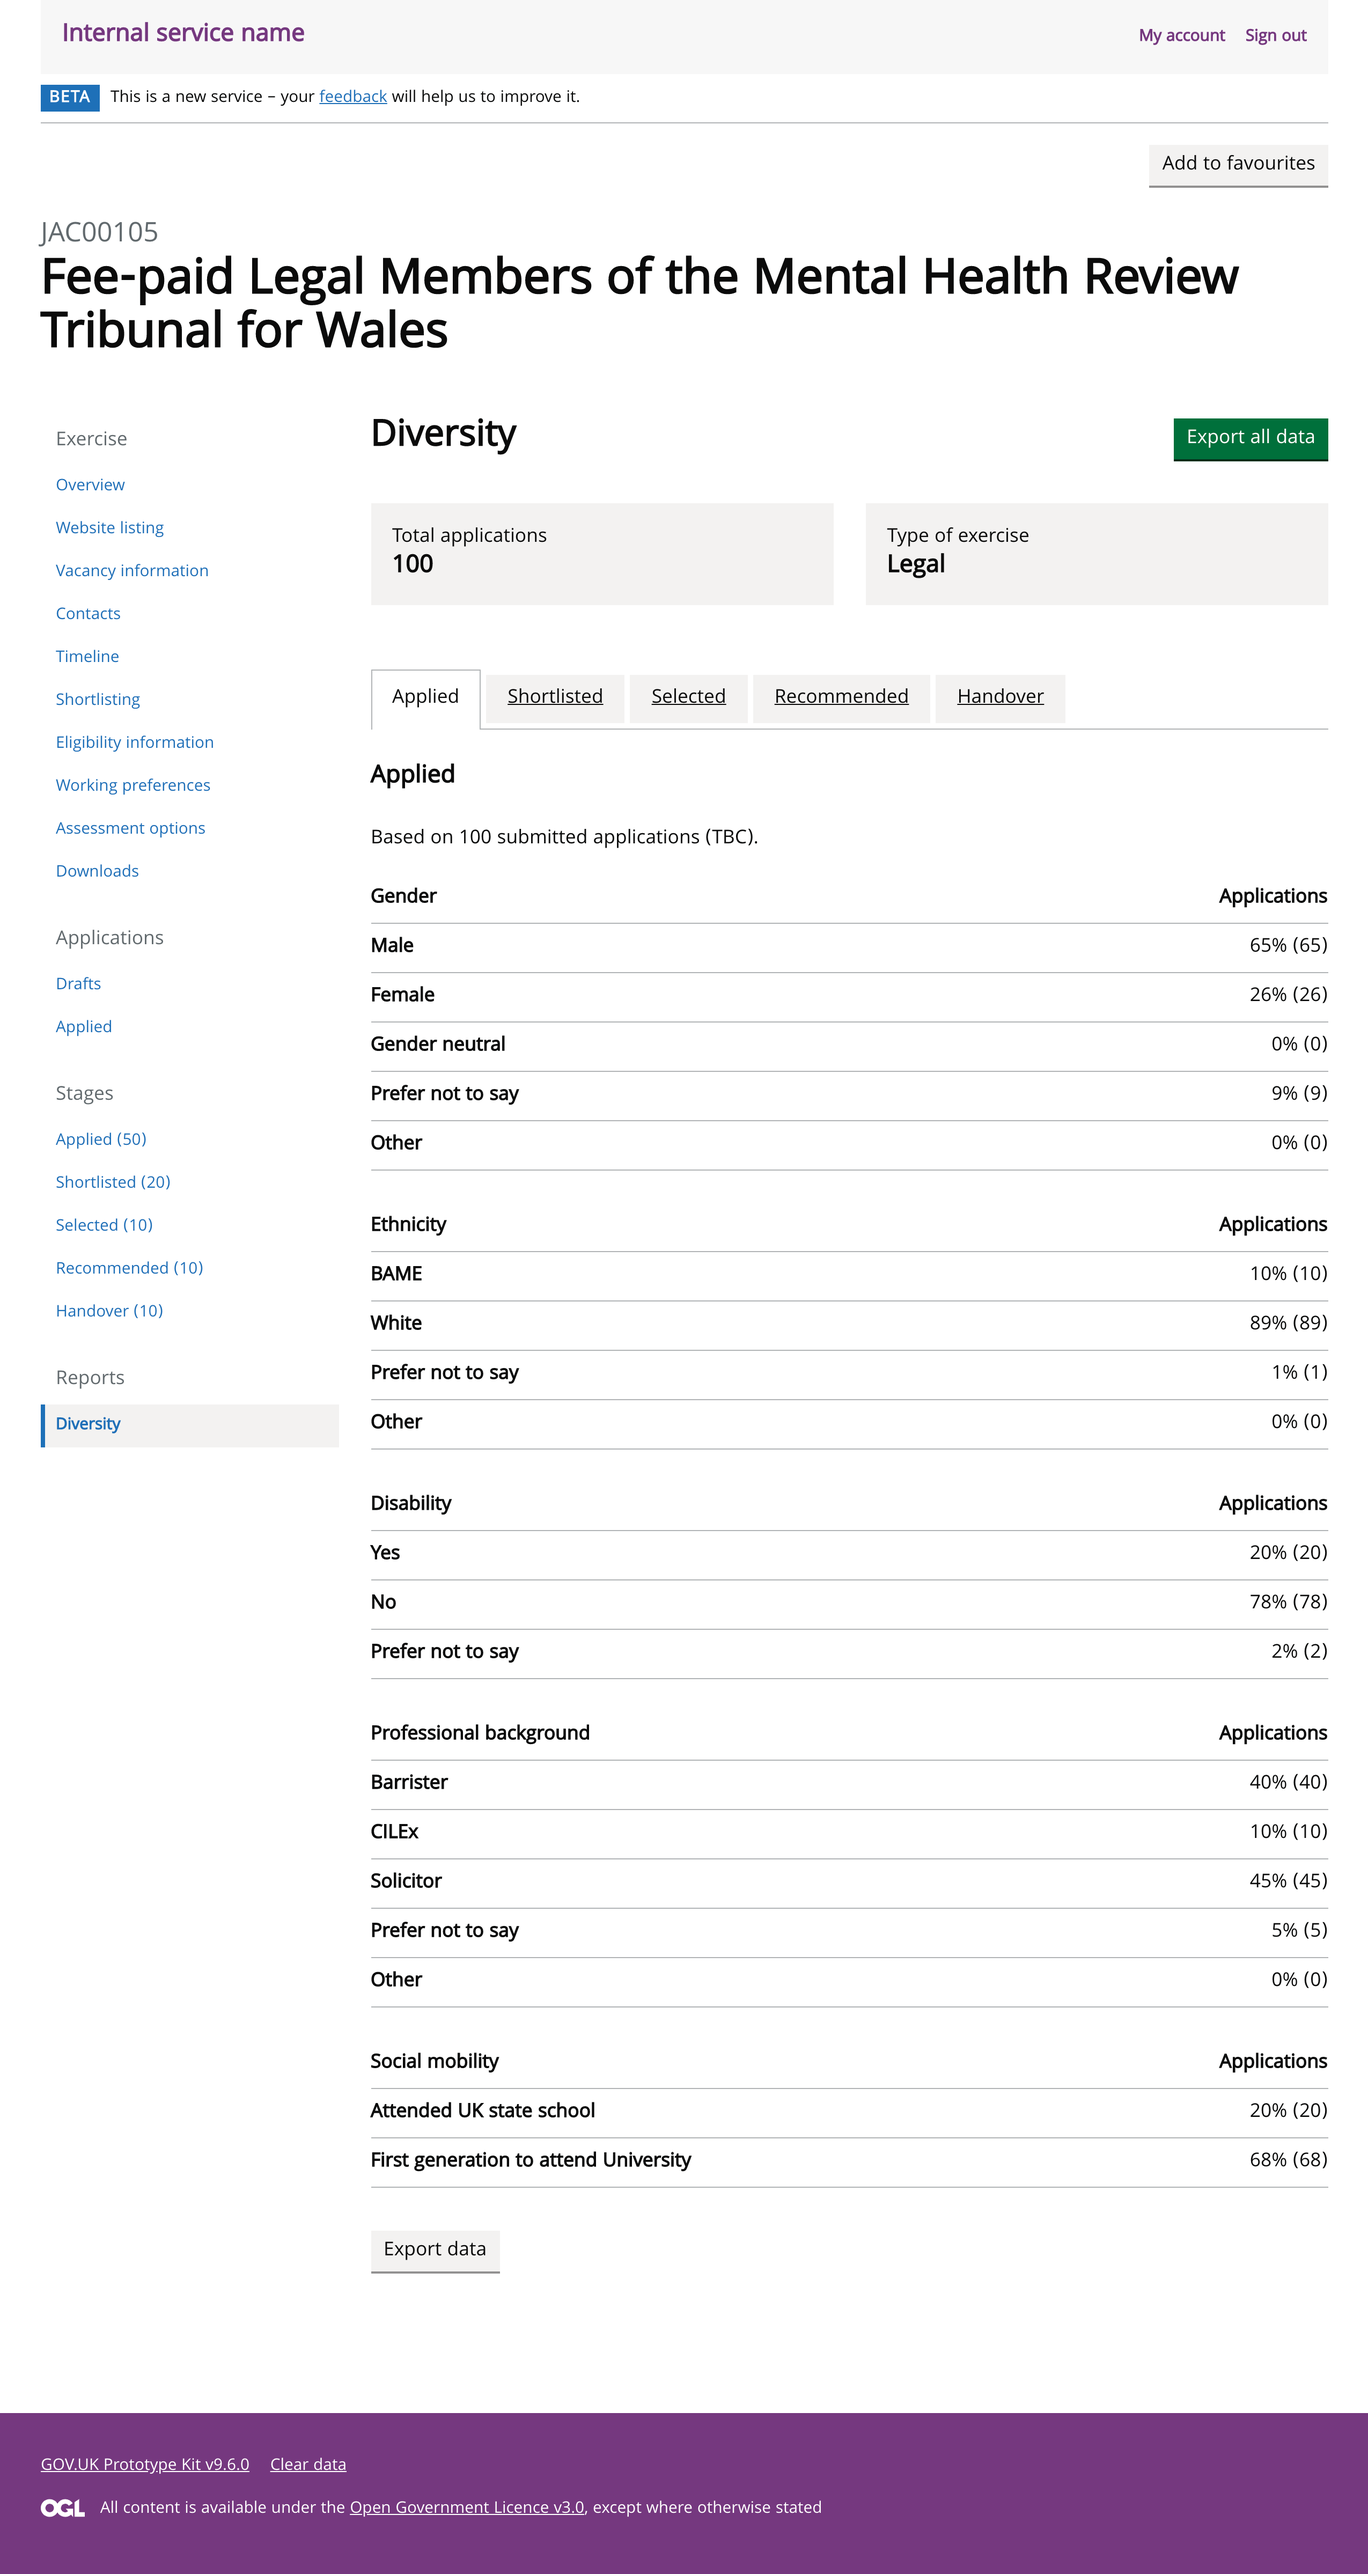
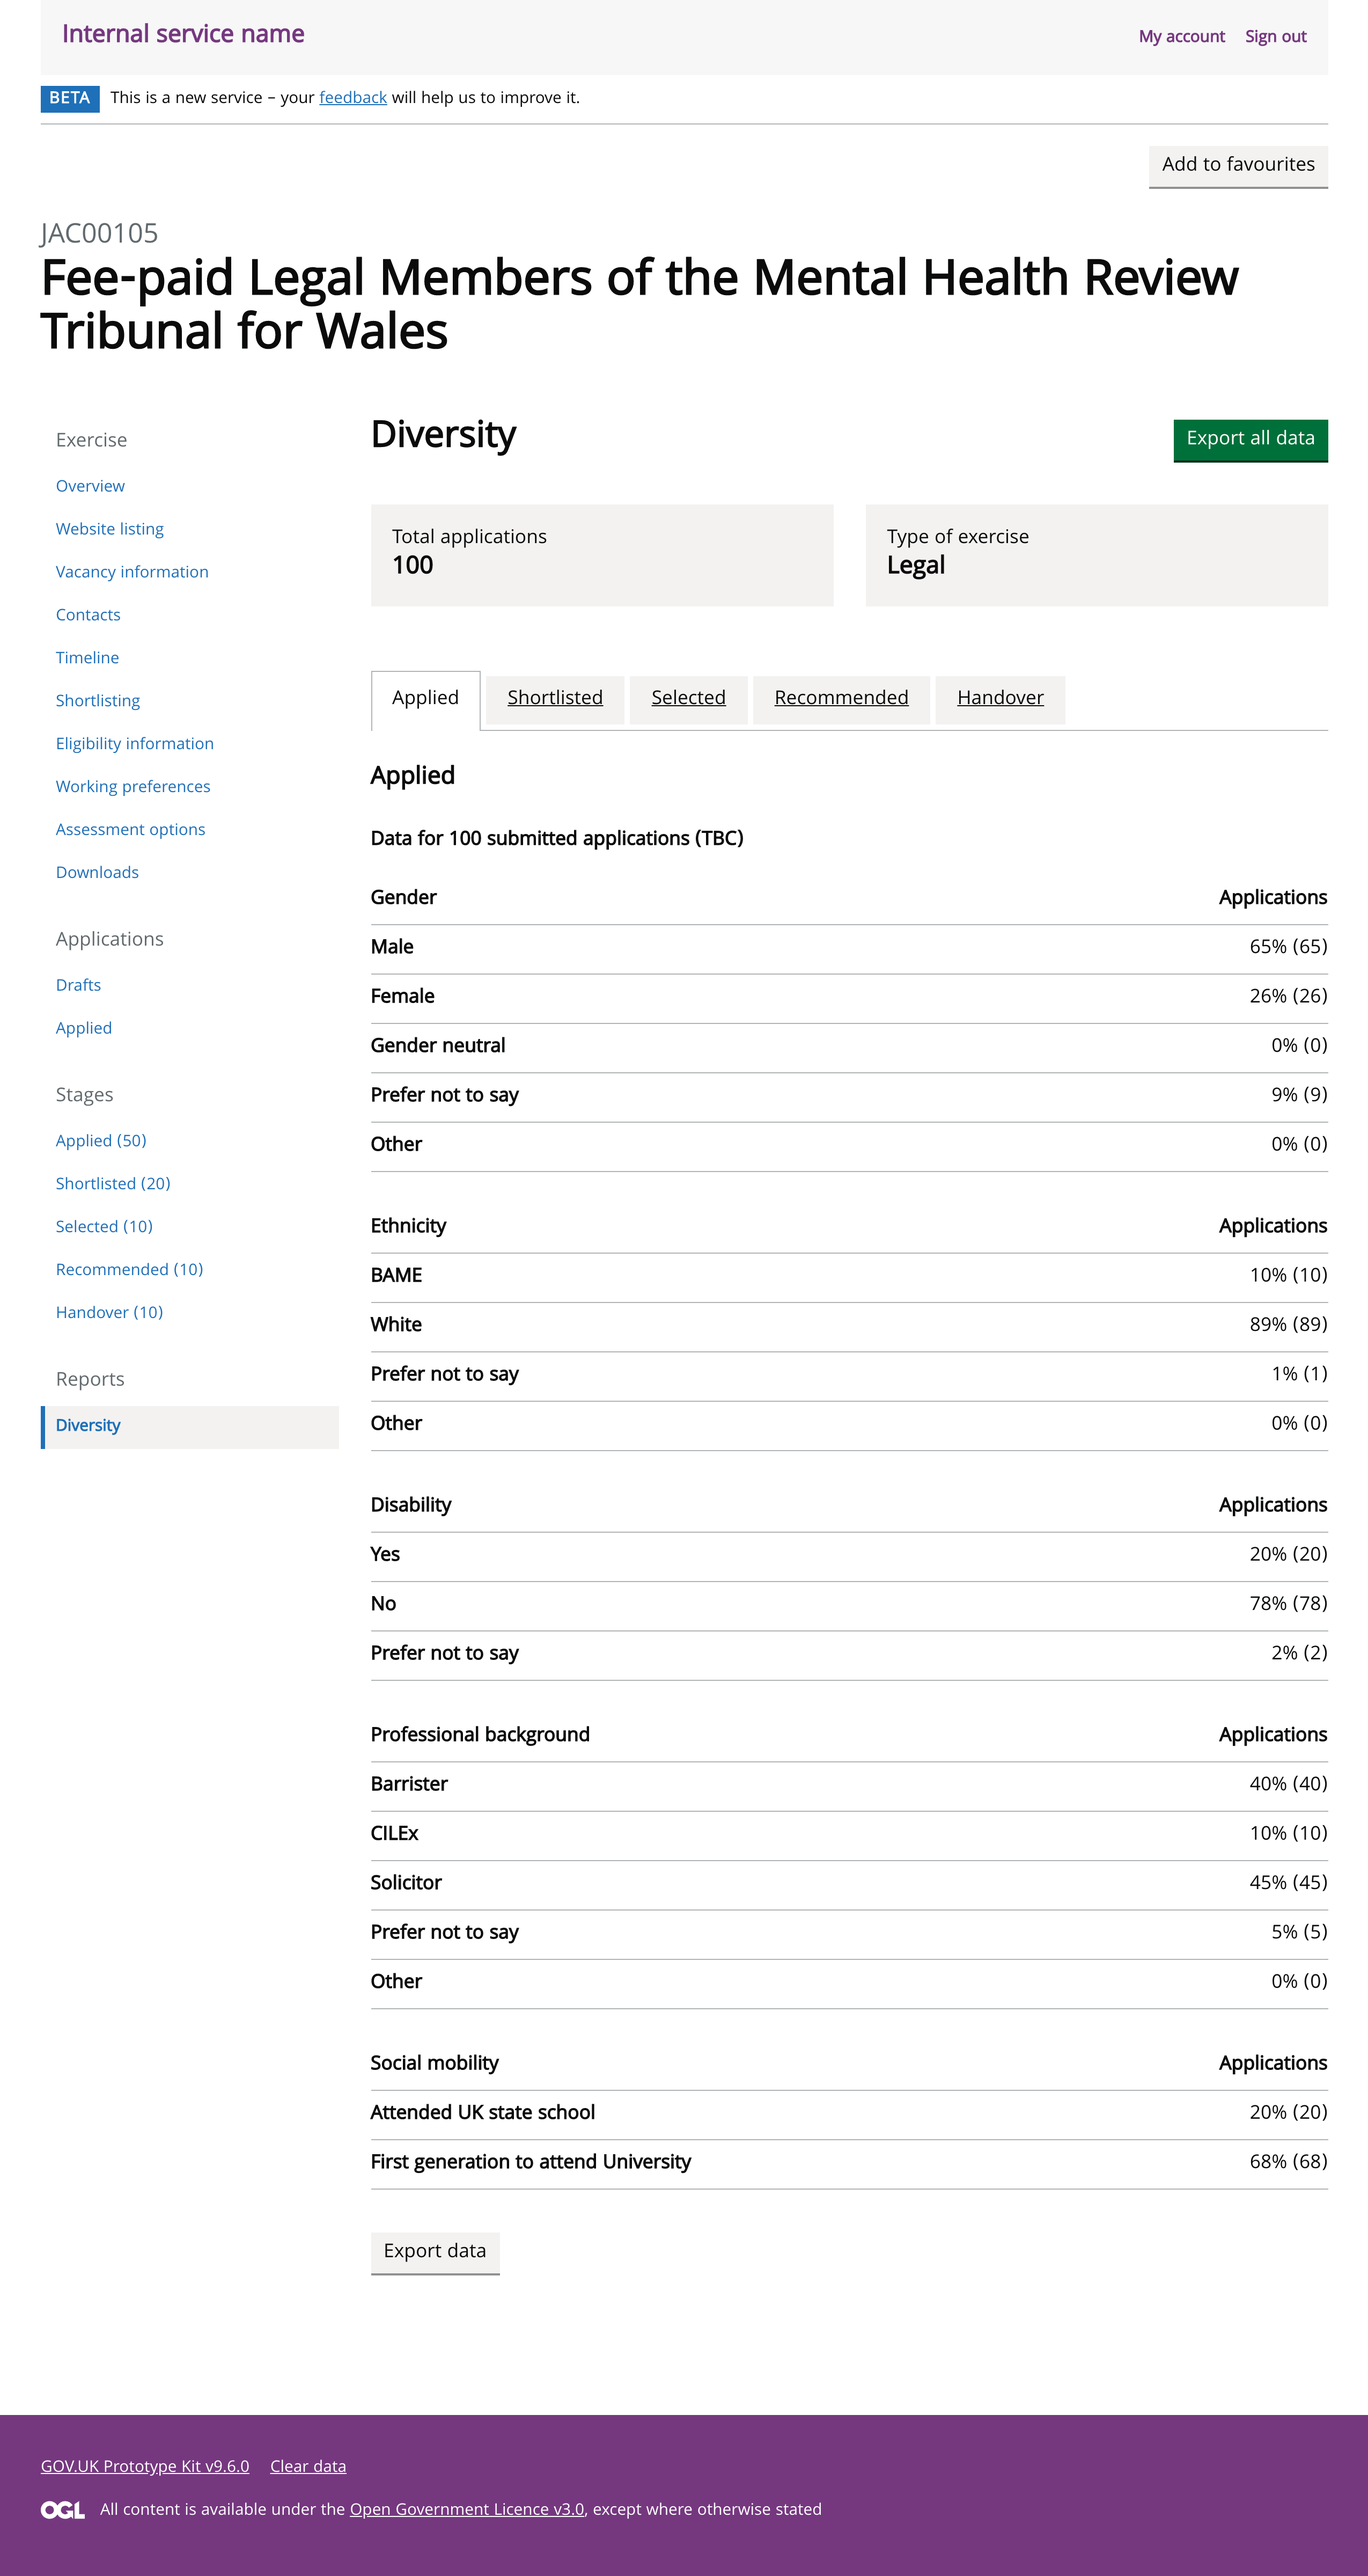
Updates to prototype

diff --git a/app/views/view-reports/v1/index.html b/app/views/view-reports/v1/index.html
@@ -168,7 +168,8 @@
 				<div class="govuk-tabs__panel" id="applied">
 					<!-- <h3 class="govuk-heading-m govuk-!-margin-bottom-6">Applied (100)</h3> -->
 					<h3 class="govuk-heading-m govuk-!-margin-bottom-6">Applied</h3>
-					<p class="govuk-body">Based on 100 submitted applications (TBC).</p>
+					<h4 class="govuk-heading-s">Data for 100 submitted applications (TBC)</h4>
+					<!-- <p class="govuk-body">Data for 100 submitted applications (TBC).</p> -->
 					<table class="govuk-table">
 						<caption class="govuk-table__caption hidden">Gender by applied stage</caption>
 						<thead class="govuk-table__head">
@@ -306,7 +307,8 @@
 				<div class="govuk-tabs__panel govuk-tabs__panel--hidden" id="shortlisted">
 					<!-- <h3 class="govuk-heading-m govuk-!-margin-bottom-6">Shortlisted (50)</h3> -->
 					<h3 class="govuk-heading-m govuk-!-margin-bottom-6">Shortlisted</h3>
-					<p class="govuk-body">Based on 50 applications that have been shortlisted (TBC).</p>
+					<h4 class="govuk-heading-s">Data for 50 applications that were shortlisted (TBC)</h4>
+					<!-- <p class="govuk-body">Data for 50 applications that were shortlisted (TBC).</p> -->
 					<table class="govuk-table">
 						<caption class="govuk-table__caption hidden">Gender by shortlisted stage</caption>
 						<thead class="govuk-table__head">
@@ -444,7 +446,8 @@
 				<div class="govuk-tabs__panel govuk-tabs__panel--hidden" id="selected">
 					<!-- <h3 class="govuk-heading-m govuk-!-margin-bottom-6">Selected (30)</h3> -->
 					<h3 class="govuk-heading-m govuk-!-margin-bottom-6">Selected</h3>
-					<p class="govuk-body">Based on 30 applications that have been selected (TBC).</p>
+					<h4 class="govuk-heading-s">Data for 30 applications that were selected (TBC)</h4>
+					<!-- <p class="govuk-body">Data for 30 applications that were selected (TBC).</p> -->
 					<table class="govuk-table">
 						<caption class="govuk-table__caption hidden">Gender by selected stage</caption>
 						<thead class="govuk-table__head">
@@ -582,7 +585,8 @@
 				<div class="govuk-tabs__panel govuk-tabs__panel--hidden" id="recommended">
 					<!-- <h3 class="govuk-heading-m govuk-!-margin-bottom-6">Recommended (20)</h3> -->
 					<h3 class="govuk-heading-m govuk-!-margin-bottom-6">Recommended</h3>
-					<p class="govuk-body">Based on 20 applications that have been recommended (TBC).</p>
+					<h4 class="govuk-heading-s">Data for 20 applications that were recommended (TBC)</h4>
+					<!-- <p class="govuk-body">Data for 20 applications that were recommended (TBC).</p> -->
 					<table class="govuk-table">
 						<caption class="govuk-table__caption hidden">Gender by recommended stage</caption>
 						<thead class="govuk-table__head">
@@ -720,7 +724,8 @@
 				<div class="govuk-tabs__panel govuk-tabs__panel--hidden" id="handover">
 					<!-- <h3 class="govuk-heading-m govuk-!-margin-bottom-6">Handover (10)</h3> -->
 					<h3 class="govuk-heading-m govuk-!-margin-bottom-6">Handover</h3>
-					<p class="govuk-body">Based on 10 applications that have been awarded the role (TBC).</p>
+					<!-- <p class="govuk-body">Data for 10 applications that were awarded the role (TBC).</p> -->
+					<h4 class="govuk-heading-s">Data for 10 applications that were awarded the role (TBC)</h4>
 					<table class="govuk-table">
 						<caption class="govuk-table__caption hidden">Gender by handover stage</caption>
 						<thead class="govuk-table__head">
